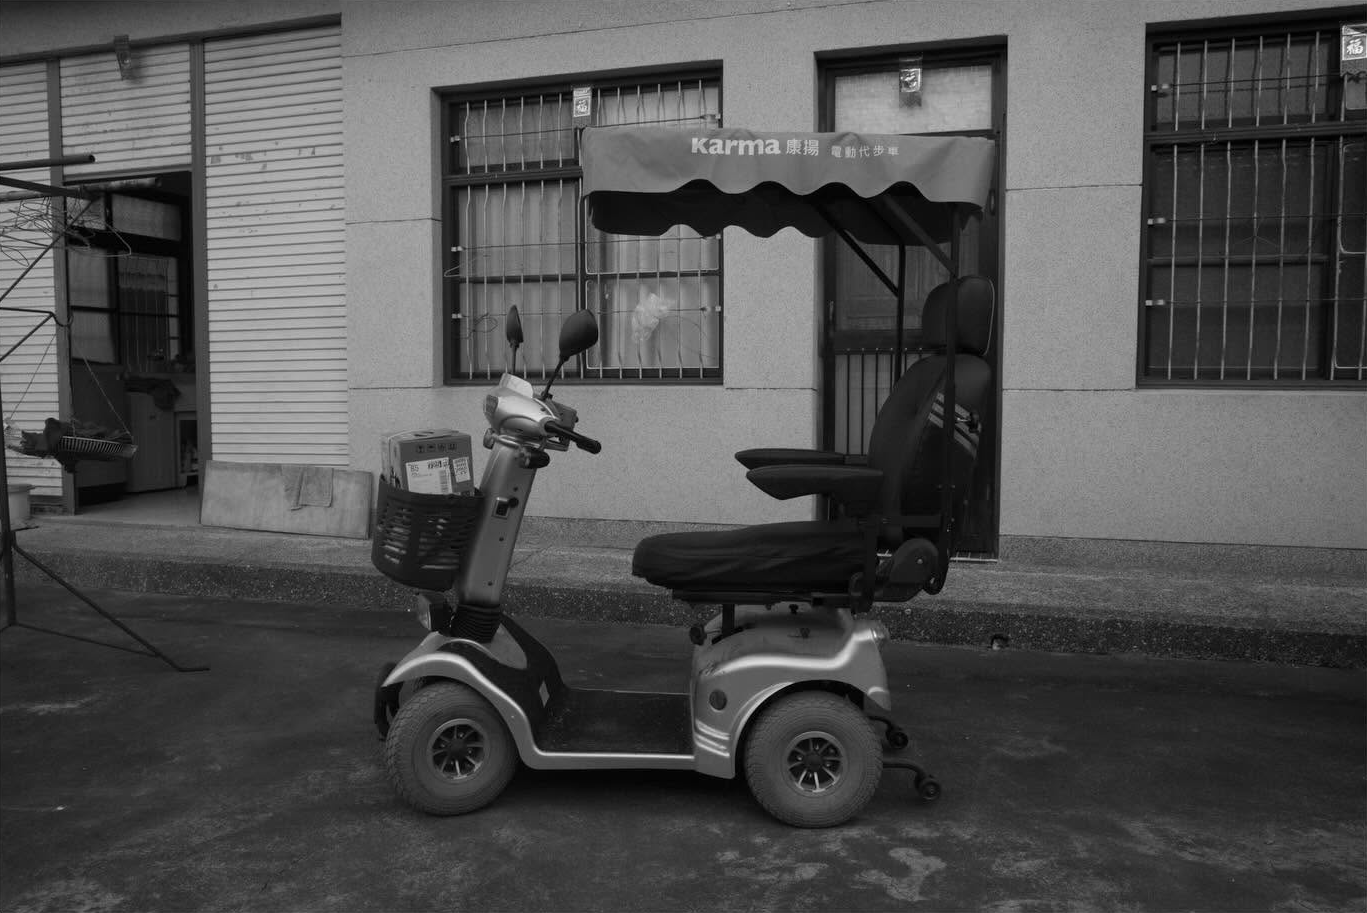
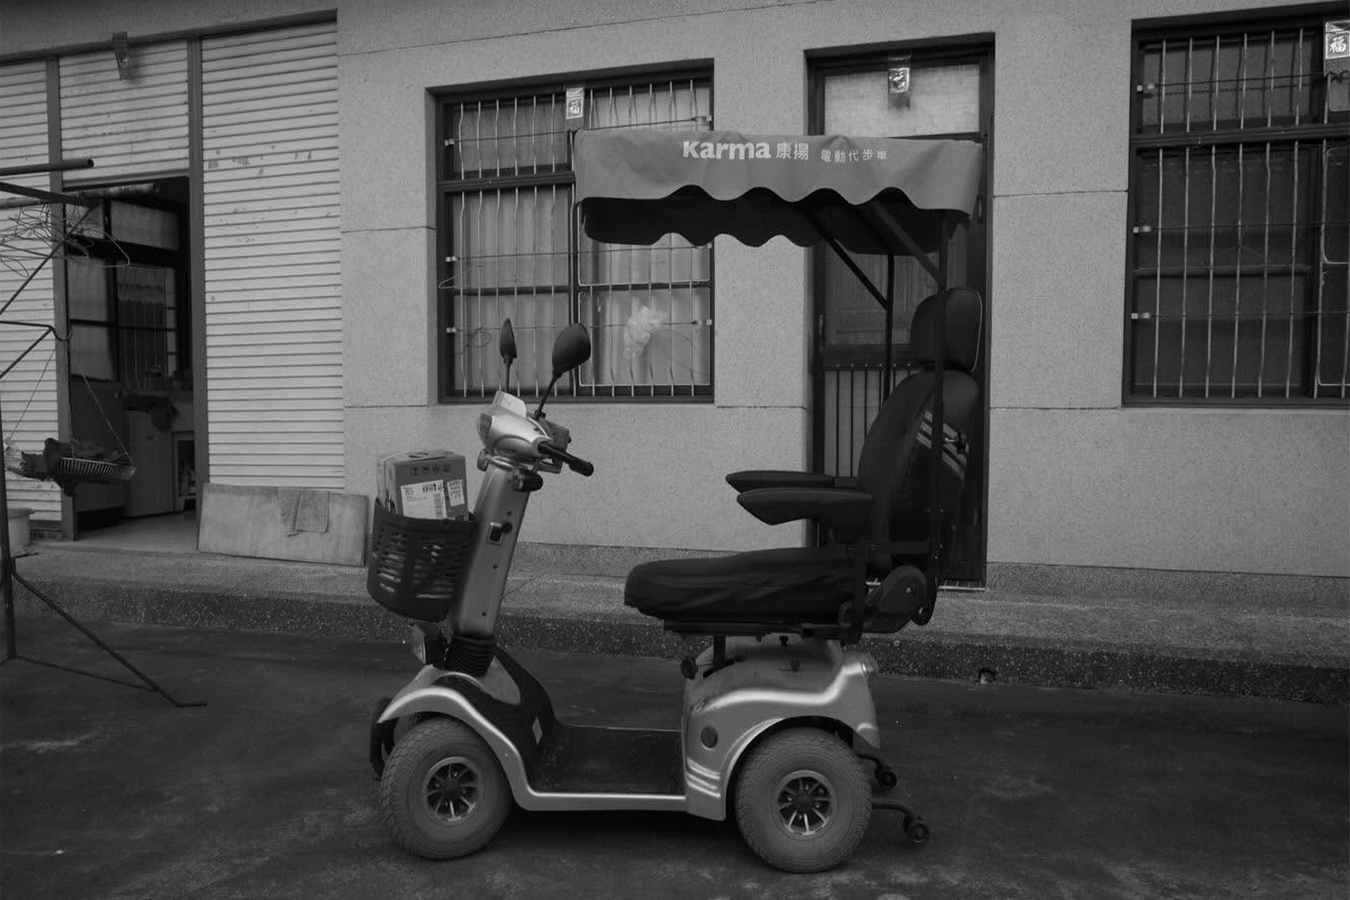
Improve hero cover image loading experience
This change introduces a low-resolution pixelated placeholder that is displayed instantly while the full-resolution hero cover image loads. Once loaded, the placeholder fades out and the high-resolution image fades in, providing a smoother and faster perceived loading experience.

The implementation leverages `Image.decode()` for improved browser decoding performance and `decoding="async"` for non-blocking image decoding.

diff --git a/index.js b/index.js
@@ -3,6 +3,8 @@ const glassRoot = document.querySelector("#glass-root");
 const siteHeader = document.querySelector(".site-header");
 const mobileMenuGlass = document.querySelector(".mobile-menu-glass");
 const mainContent = document.querySelector("main");
+const coverImageFrame = document.querySelector(".cover-image-frame");
+const coverImage = document.querySelector(".cover-image");
 const themeToggle = document.querySelector(".theme-toggle");
 const menuToggle = document.querySelector(".menu-toggle");
 const navigationMenu = document.querySelector(".nav-links");
@@ -90,6 +92,31 @@ function refreshLiquidGlass() {
   window.requestAnimationFrame(() => {
     liquidGlassInstance?.markChanged(mainContent || undefined);
   });
+}
+
+function revealCoverImage() {
+  if (!coverImageFrame || !coverImage) {
+    return;
+  }
+
+  coverImageFrame.classList.add("is-loaded");
+  refreshLiquidGlass();
+  window.setTimeout(refreshLiquidGlass, 260);
+}
+
+function decodeCoverImage() {
+  if (!coverImage) {
+    return;
+  }
+
+  if (typeof coverImage.decode !== "function") {
+    revealCoverImage();
+    return;
+  }
+
+  coverImage.decode()
+    .catch(() => {})
+    .finally(revealCoverImage);
 }
 
 function syncMobileMenuGlass() {
@@ -182,6 +209,12 @@ function reinitializeLiquidGlass() {
 syncThemeUI(documentRoot.dataset.theme);
 updateHeaderGlass();
 void initLiquidGlass();
+
+if (coverImage?.complete && coverImage.naturalWidth > 0) {
+  decodeCoverImage();
+} else {
+  coverImage?.addEventListener("load", decodeCoverImage, { once: true });
+}
 
 themeToggle.addEventListener("click", () => {
   setTheme(documentRoot.dataset.theme === "dark" ? "light" : "dark");

diff --git a/style.css b/style.css
@@ -300,11 +300,43 @@ button {
   padding: 54px 0 24px;
 }
 
-.cover-image {
+.cover-image-frame {
+  position: relative;
   display: block;
   width: 100%;
-  height: auto;
+  aspect-ratio: 3 / 2;
   margin-bottom: 28px;
+  overflow: hidden;
+  background: var(--bg);
+}
+
+.cover-image-placeholder,
+.cover-image {
+  position: absolute;
+  inset: 0;
+  display: block;
+  width: 100%;
+  height: 100%;
+  object-fit: cover;
+}
+
+.cover-image-placeholder {
+  image-rendering: pixelated;
+  opacity: 1;
+  transition: opacity .24s ease;
+}
+
+.cover-image {
+  opacity: 0;
+  transition: opacity .24s ease;
+}
+
+.cover-image-frame.is-loaded .cover-image-placeholder {
+  opacity: 0;
+}
+
+.cover-image-frame.is-loaded .cover-image {
+  opacity: 1;
 }
 
 .identity {
@@ -693,7 +725,7 @@ footer p {
     gap: 16px;
   }
 
-  .cover-image {
+  .cover-image-frame {
     margin-bottom: 24px;
   }
 

diff --git a/index.html b/index.html
@@ -59,7 +59,10 @@
   <main id="top">
     <div class="page-shell">
       <section class="hero" aria-labelledby="hero-title">
-        <img class="cover-image" src="resources/photo/cover.png" alt="KWEIWEN TSENG" width="1142" height="1712" fetchpriority="high">
+        <div class="cover-image-frame">
+          <img class="cover-image-placeholder" src="resources/photo/cover-96x64-mosaic.png" alt="" width="96" height="64" aria-hidden="true">
+          <img class="cover-image" src="resources/photo/cover.png" alt="KWEIWEN TSENG" width="1350" height="900" fetchpriority="high" decoding="async">
+        </div>
         <div class="identity">
           <div class="identity-copy">
             <h1 id="hero-title">KWEIWEN TSENG</h1>
